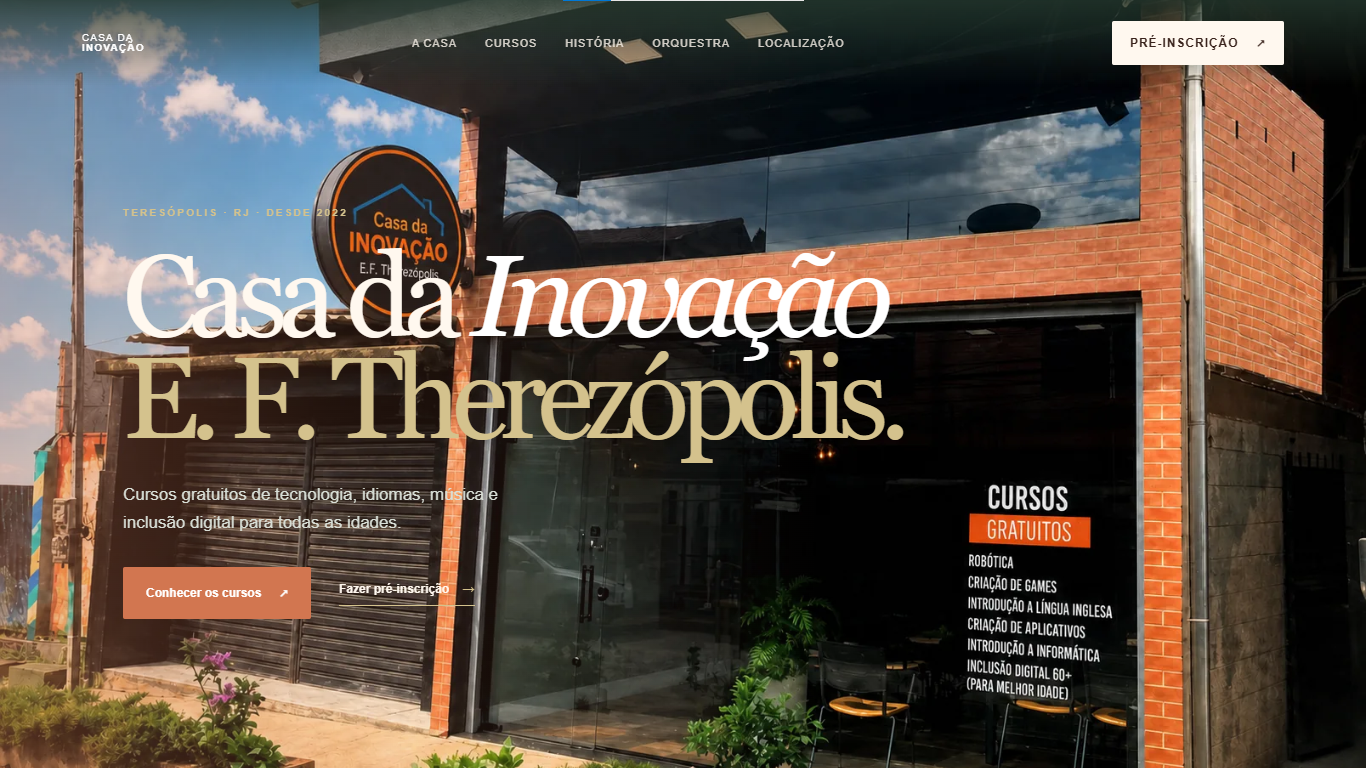
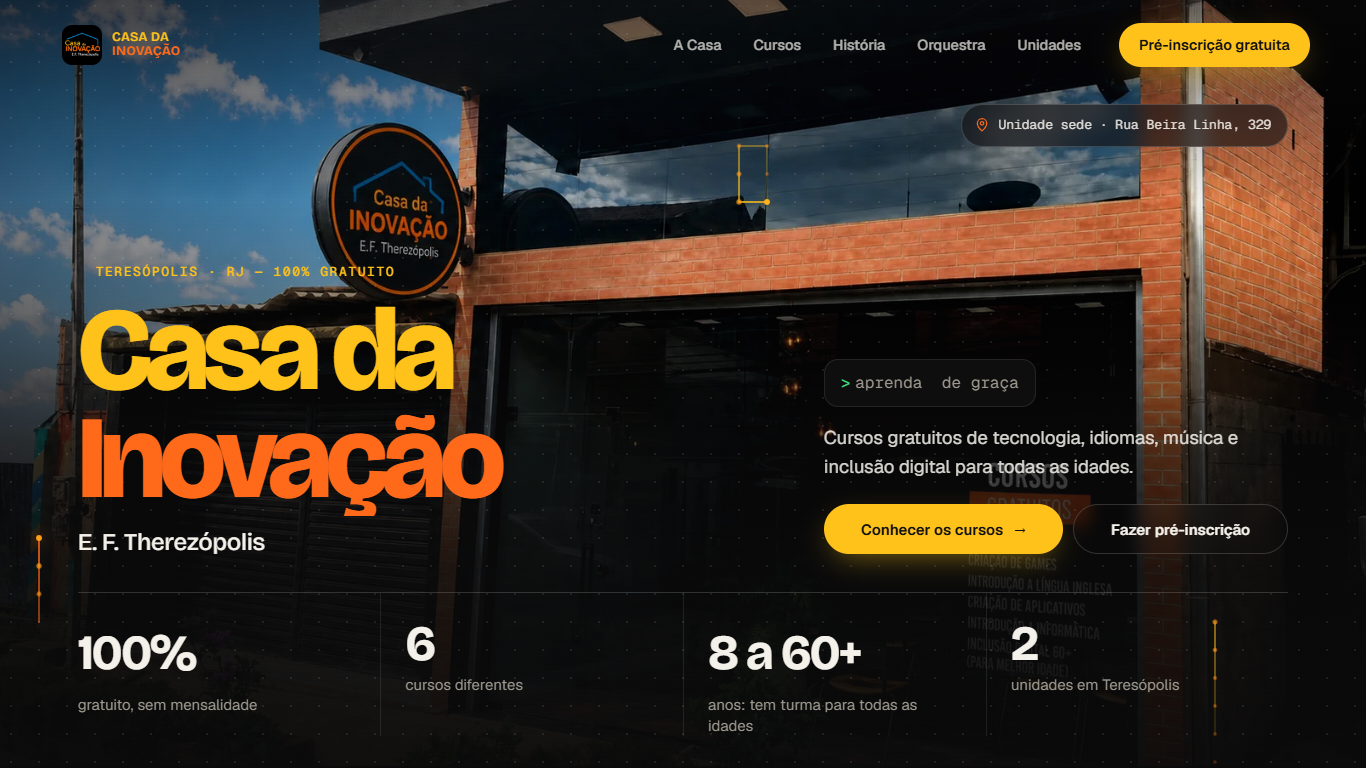
Refactor code structure for improved readability and maintainability

diff --git a/data/projects.ts b/data/projects.ts
@@ -8,33 +8,53 @@ export type Project = {
   role: string;
   stack: string[];
   liveUrl?: string;
-  visual: 'insidely' | 'casa' | 'atlas';
+  visual: 'insidely' | 'casa' | 'atlas' | 'decora' | 'altezza' | 'cuidapet';
   previewUrl?: string;
   cover?: string;
-  status?: string;
 };
 
 export const projects: Project[] = [
   {
-    id: '01', slug: 'insidely', name: 'Insidely', category: 'Product / digital platform',
-    description: 'Marketplace de conversas profissionais para conhecer a realidade de empresas e profissões antes de tomar decisões de carreira.',
-    detail: 'Uma plataforma digital para descobrir o que existe por dentro de uma oportunidade antes de tomar uma decisão.',
+    id: '01', slug: 'insidely', name: 'Insidely', category: 'Product / career platform',
+    description: 'Desenvolvimento de plataforma web para reduzir a frustração profissional por meio de consultoria autêntica com funcionários verificados.',
+    detail: 'A Insidely aproxima pessoas de funcionários verificados para oferecer conversas e perspectivas reais sobre empresas e profissões antes de uma decisão de carreira.',
     role: 'Conceito, produto, UX/UI e desenvolvimento', stack: ['Product thinking', 'UX/UI', 'React', 'Next.js', 'Supabase'],
     liveUrl: 'https://insidely.vercel.app/', previewUrl: 'https://insidely.vercel.app/', visual: 'insidely', cover: '/images/projects/insidely-home.png',
   },
   {
-    id: '02', slug: 'casa-da-inovacao', name: 'Casa da Inovação', category: 'Institutional / education',
-    description: 'Site oficial da Casa da Inovação E.F. Therezópolis, com informações sobre cursos, horários, projetos, história e pré-matrícula integrada ao Google Forms.',
+    id: '02', slug: 'casa-da-inovacao', name: 'Casa da Inovação', category: 'Institucional / educação',
+    description: 'Site oficial da Casa da Inovação E. F. Therezópolis, com informações sobre cursos, horários, projetos, história e pré-matrícula integrada ao Google Forms.',
     detail: 'Uma presença digital institucional para apresentar a Casa da Inovação, orientar visitantes e facilitar o acesso à pré-matrícula.',
-    role: 'Estratégia de conteúdo, UX/UI, implementação e iteração', stack: ['Information architecture', 'UX/UI', 'Front-end', 'AI-assisted development'],
+    role: 'Estratégia de conteúdo, UX/UI, implementação e iteração', stack: ['Arquitetura da informação', 'UX/UI', 'Front-end', 'Desenvolvimento com IA'],
     liveUrl: 'https://casadainovacao.vercel.app/', previewUrl: 'https://casadainovacao.vercel.app/', visual: 'casa', cover: '/images/projects/casa-da-inovacao-home.png',
   },
   {
-    id: '03', slug: 'atlas', name: 'A.T.L.A.S', category: 'AI / multi-agent ecosystem',
-    description: 'Ecossistema de agentes artificiais especializados em inteligência financeira, pesquisa de mercado, análise quantitativa e trading algorítmico.',
-    detail: 'Um ecossistema multi-agente de inteligência artificial para explorar diferentes camadas de análise financeira e de mercado.',
-    role: 'Conceito, arquitetura multi-agente, UX/UI e desenvolvimento', stack: ['Inteligência financeira', 'Pesquisa de mercado', 'Análise quantitativa', 'Trading algorítmico'],
-    liveUrl: 'https://atlasagent.vercel.app/app', previewUrl: 'https://atlasagent.vercel.app/app', visual: 'atlas', cover: '/images/projects/atlas-home.png',
+    id: '03', slug: 'atlas', name: 'A.T.L.A.S', category: 'Investimentos / inteligência artificial',
+    description: 'Plataforma de investimentos que usa inteligência artificial para analisar o mercado financeiro e apoiar decisões sobre ações.',
+    detail: 'As IAs analisam gráficos, estatísticas e informações do mercado para orientar decisões de compra e venda de ações. A estratégia busca acumular ativos e gerar dividendos, com operações realizadas pela Genial Investimentos.',
+    role: 'Conceito, inteligência artificial, UX/UI e desenvolvimento', stack: ['Inteligência artificial', 'Análise de mercado', 'Ações', 'Dividendos'],
+    liveUrl: 'https://atlasagent.vercel.app/', previewUrl: 'https://atlasagent.vercel.app/', visual: 'atlas', cover: '/images/projects/atlas-home.png',
+  },
+  {
+    id: '04', slug: 'cuidapet', name: 'CuidaPet', category: 'Pet care / saúde e rotina',
+    description: 'Aplicação para tutores criarem perfis, cadastrarem seus pets, acompanharem vacinas e consultas, receberem lembretes e encontrarem dicas e produtos adequados.',
+    detail: 'Uma agenda de cuidados que reúne os perfis dos pets, a carteira de vacinação, lembretes de consultas e orientações e produtos relacionados a cada animal.',
+    role: 'Conceito, produto, UX/UI e desenvolvimento', stack: ['Product thinking', 'UX/UI', 'Agenda e lembretes', 'Saúde animal'],
+    liveUrl: 'https://cuidapetapp.vercel.app/', previewUrl: 'https://cuidapetapp.vercel.app/', visual: 'cuidapet', cover: '/images/projects/cuidapet.png',
+  },
+  {
+    id: '05', slug: 'decora-moveis', name: 'Decora Móveis', category: 'Móveis / e-commerce',
+    description: 'Loja digital de móveis autorais, com foco em uma experiência visual que destaca as peças, suas cores e condições de compra.',
+    detail: 'Uma vitrine online para explorar móveis com personalidade, visualizar opções de cores e encontrar os detalhes de cada peça.',
+    role: 'Conceito, UX/UI e desenvolvimento', stack: ['E-commerce', 'UX/UI', 'Front-end'],
+    liveUrl: 'https://decoramoveis.vercel.app/', previewUrl: 'https://decoramoveis.vercel.app/', visual: 'decora', cover: '/images/projects/decora-moveis.png',
+  },
+  {
+    id: '06', slug: 'altezza', name: 'Altiza Imóveis', category: 'Imóveis / alto padrão',
+    description: 'Experiência digital para uma imobiliária exclusiva, dedicada à apresentação de casas e propriedades de alto padrão.',
+    detail: 'Uma vitrine imobiliária editorial que apresenta imóveis premium por meio de imagens amplas, informações essenciais e recursos para agendar uma visita.',
+    role: 'Conceito, direção visual, UX/UI e desenvolvimento', stack: ['Real estate', 'UX/UI', 'Front-end'],
+    liveUrl: 'https://altezzaimoveis.vercel.app/', previewUrl: 'https://altezzaimoveis.vercel.app/', visual: 'altezza', cover: '/images/projects/altezza.png',
   },
 ];
 

diff --git a/app/work/[slug]/page.tsx b/app/work/[slug]/page.tsx
@@ -6,7 +6,27 @@ import { ProjectVisual } from '@/components/ProjectVisual';
 export function generateStaticParams() { return projects.map(({ slug }) => ({ slug })); }
 
 export default async function CasePage({ params }: { params: Promise<{ slug: string }> }) {
-  const { slug } = await params; const project = getProject(slug); if (!project) notFound();
-  const nextProject = projects.find((item) => item.slug !== project.slug)!;
-  return <main className={`case-page case-page-${project.visual}`}><header className="case-header"><Link href="/" className="wordmark">BS</Link><Link href="/">← All work</Link></header><section className="case-hero"><p className="section-label">{project.id} / {project.category}</p><h1>{project.name}</h1><p className="case-intro">{project.detail}</p><div className="case-actions"><a className="solid-link" href={project.liveUrl} target="_blank" rel="noreferrer">Visitar projeto ao vivo ↗</a><span>{project.role}</span></div></section><section className="case-art"><ProjectVisual project={project} /></section><section className="case-story"><div><p className="section-label">Overview</p><p>{project.description}</p></div><div><p className="section-label">My role</p><p>{project.role}. O trabalho equilibra contexto, interface e implementação para transformar uma ideia em uma experiência navegável.</p></div><div><p className="section-label">Stack</p><p>{project.stack.join(' · ')}</p></div></section><section className="case-note"><span>01</span><p>Este case apresenta a experiência e as decisões visíveis do projeto. Detalhes proprietários e lógica sensível permanecem fora da publicação.</p></section><footer className="case-footer"><Link href="/">← Back to index</Link><Link href={`/work/${nextProject.slug}`}>Next case ↗</Link></footer></main>;
+  const { slug } = await params;
+  const project = getProject(slug);
+  if (!project) notFound();
+  const projectIndex = projects.findIndex((item) => item.slug === project.slug);
+  const nextProject = projects[(projectIndex + 1) % projects.length];
+
+  return <main className={`case-page case-page-${project.visual}`}>
+    <header className="case-header"><Link href="/" className="wordmark">BS</Link><Link href="/">← Todos os projetos</Link></header>
+    <section className="case-hero">
+      <p className="section-label">{project.id} / {project.category}</p>
+      <h1>{project.name}</h1>
+      <p className="case-intro">{project.detail}</p>
+      <div className="case-actions"><a className="solid-link" href={project.liveUrl} target="_blank" rel="noreferrer">Visitar projeto ao vivo ↗</a><span>{project.role}</span></div>
+    </section>
+    <section className="case-art"><ProjectVisual project={project} /></section>
+    <section className="case-story">
+      <div><p className="section-label">Sobre o projeto</p><p>{project.description}</p></div>
+      <div><p className="section-label">Minha atuação</p><p>{project.role}. O trabalho conecta contexto, interface e implementação para transformar a proposta em uma experiência digital navegável.</p></div>
+      <div><p className="section-label">Tecnologias e áreas</p><p>{project.stack.join(' · ')}</p></div>
+    </section>
+    <section className="case-note"><span>01</span><p>Este case apresenta a experiência e as decisões visíveis do projeto. Detalhes proprietários e lógica sensível permanecem fora da publicação.</p></section>
+    <footer className="case-footer"><Link href="/">← Índice de projetos</Link><Link href={`/work/${nextProject.slug}`}>Próximo case: {nextProject.name} ↗</Link></footer>
+  </main>;
 }

diff --git a/components/ProjectFeature.tsx b/components/ProjectFeature.tsx
@@ -4,8 +4,9 @@ import { ProjectVisual } from './ProjectVisual';
 export function ProjectFeature({ project }: { project: Project }) {
   return <article data-motion="project" className={`project-feature project-feature-${project.visual}`}>
     {project.liveUrl ? <a href={project.liveUrl} target="_blank" rel="noreferrer" className="project-art-link" aria-label={`Abrir site do projeto ${project.name}`}><ProjectVisual project={project} /></a> : <div className="project-art-link"><ProjectVisual project={project} /></div>}
-    <div className="project-heading"><div><p className="project-category">{project.category}</p><h3>{project.name}</h3>{project.status && <span className="project-status">{project.status}</span>}</div>{project.liveUrl ? <a className="project-arrow" href={project.liveUrl} target="_blank" rel="noreferrer" aria-label={`Abrir site do projeto ${project.name}`}>↗</a> : <span className="project-arrow project-arrow-disabled">—</span>}</div>
+    <div className="project-heading"><div><p className="project-category">{project.category}</p><h3>{project.name}</h3></div>{project.liveUrl ? <a className="project-arrow" href={project.liveUrl} target="_blank" rel="noreferrer" aria-label={`Abrir site do projeto ${project.name}`}>↗</a> : <span className="project-arrow project-arrow-disabled">—</span>}</div>
     <p className="project-description">{project.description}</p>
+    <a className="project-case-link" href={`/work/${project.slug}`}>Conhecer o projeto ↗</a>
     <div className="project-meta">{project.stack.map((item) => <span key={item}>{item}</span>)}</div>
   </article>;
 }

diff --git a/components/ProjectVisual.tsx b/components/ProjectVisual.tsx
@@ -3,7 +3,7 @@ import Image from 'next/image';
 
 export function ProjectVisual({ project }: { project: Project }) {
   return <div className={`project-visual project-visual-${project.visual}`}>
-    {project.cover ? <Image src={project.cover} alt={`Screenshot do projeto ${project.name}`} fill sizes="(max-width: 800px) 92vw, 80vw" /> : <div className="project-asset-needed"><span>Screenshot real do projeto</span><strong>{project.name}</strong><small>Asset local aguardando upload</small></div>}
-    <div className="preview-overlay"><span>{project.category}</span><span>View case ↗</span></div>
+    {project.cover ? <Image src={project.cover} alt={`Captura de tela do projeto ${project.name}`} fill sizes="(max-width: 800px) 92vw, 80vw" /> : <div className="project-asset-needed"><span>Captura do projeto</span><strong>{project.name}</strong><small>Imagem em preparação</small></div>}
+    <div className="preview-overlay"><span>{project.category}</span><span>Ver projeto ↗</span></div>
   </div>;
 }

diff --git a/app/globals.css b/app/globals.css
@@ -182,3 +182,11 @@ img{max-width:100%}
 @media(max-width:420px){.contact-section .contact-socials a:nth-child(n)::after{content:'→'!important;font-size:14px}
 }
 .contact-section .contact-grid{max-width:none}
+.project-feature-decora .project-heading h3{color:#c3c29e}
+.project-feature-altezza .project-heading h3{color:#d6cfb8}
+.project-feature-cuidapet .project-heading h3{color:#67c9f1}
+.case-page-decora .case-hero h1{color:#c3c29e}
+.case-page-altezza .case-hero h1{color:#d6cfb8}
+.case-page-cuidapet .case-hero h1{color:#67c9f1}
+.project-case-link{display:inline-block;margin:22px 0 20px;color:var(--text);font:10px var(--mono);letter-spacing:.03em;text-decoration:none;text-transform:uppercase;border-bottom:1px solid var(--accent);padding-bottom:8px;transition:color .2s,border-color .2s}
+.project-case-link:hover{color:var(--hot);border-color:var(--hot)}
